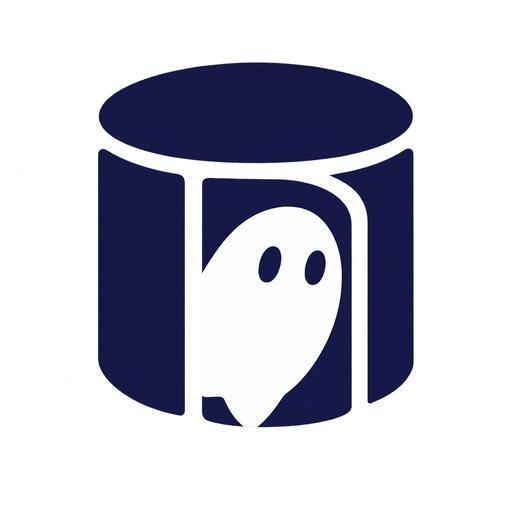
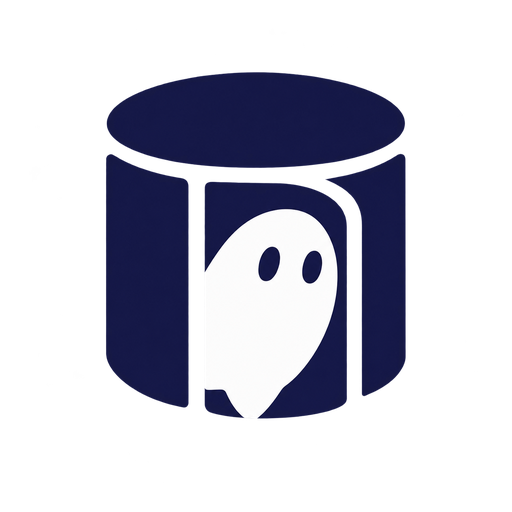
feat: 로고 스타일 수정 및 앱설치방법 버튼 & 설명추가

diff --git a/src/components/install-guide-button.tsx b/src/components/install-guide-button.tsx
@@ -1,6 +1,6 @@
 "use client";
 
-import { ChevronRight, Download, Share, SquarePlus } from "lucide-react";
+import { Download, Share, SquarePlus } from "lucide-react";
 import { useEffect, useState } from "react";
 
 import { BottomSheet } from "@/components/bottom-sheet";
@@ -10,24 +10,25 @@ type BeforeInstallPromptEvent = Event & {
   userChoice: Promise<{ outcome: "accepted" | "dismissed" }>;
 };
 
-const isStandaloneDisplay = () =>
-  window.matchMedia("(display-mode: standalone)").matches ||
-  (window.navigator as unknown as { standalone?: boolean }).standalone === true;
+const getIsIOS = () =>
+  typeof navigator !== "undefined" &&
+  /iPad|iPhone|iPod/.test(navigator.userAgent) &&
+  !("MSStream" in window);
+
+const getIsStandalone = () =>
+  typeof window !== "undefined" &&
+  (window.matchMedia("(display-mode: standalone)").matches ||
+    (window.navigator as unknown as { standalone?: boolean }).standalone ===
+      true);
 
 export const InstallGuideButton = () => {
   const [open, setOpen] = useState(false);
-  const [isIOS, setIsIOS] = useState(false);
-  const [isStandalone, setIsStandalone] = useState(false);
+  const [isIOS] = useState(getIsIOS);
+  const [isStandalone] = useState(getIsStandalone);
   const [deferredPrompt, setDeferredPrompt] =
     useState<BeforeInstallPromptEvent | null>(null);
 
   useEffect(() => {
-    setIsIOS(
-      /iPad|iPhone|iPod/.test(navigator.userAgent) &&
-        !("MSStream" in window),
-    );
-    setIsStandalone(isStandaloneDisplay());
-
     const handleBeforeInstallPrompt = (event: Event) => {
       event.preventDefault();
       setDeferredPrompt(event as BeforeInstallPromptEvent);
@@ -59,13 +60,10 @@ export const InstallGuideButton = () => {
       <button
         type="button"
         onClick={handleClick}
-        className="border-border bg-surface hover:border-primary/30 flex w-full items-center gap-3 rounded-xl border p-3 text-left shadow-sm transition-all hover:shadow"
+        className="border-border text-text-muted hover:border-primary/40 hover:text-primary flex w-full items-center justify-center gap-1.5 rounded-xl border py-2.5 text-xs font-medium transition-colors"
       >
-        <span className="bg-point/40 flex size-9 shrink-0 items-center justify-center rounded-full">
-          <Download className="text-primary size-4" />
-        </span>
-        <span className="text-text flex-1 text-sm font-bold">앱 설치하기</span>
-        <ChevronRight className="text-text-muted size-4" />
+        <Download className="size-3.5" />
+        앱 설치하기
       </button>
 
       <BottomSheet open={open} onOpenChange={setOpen} title="앱 설치 방법">

diff --git a/src/app/(main)/mypage/page.tsx b/src/app/(main)/mypage/page.tsx
@@ -2,6 +2,7 @@ import { ChevronRight, Heart } from "lucide-react";
 import Link from "next/link";
 import { redirect } from "next/navigation";
 
+import { InstallGuideButton } from "@/components/install-guide-button";
 import { MyUploadsSection } from "@/components/mypage/my-uploads-section";
 import { SignOutButton } from "@/components/mypage/sign-out-button";
 import { createClient } from "@/lib/supabase/server";
@@ -38,7 +39,10 @@ export default async function Page() {
 
       <MyUploadsSection userId={userId} />
 
-      <SignOutButton />
+      <div className="mt-2 flex flex-col gap-2">
+        <InstallGuideButton />
+        <SignOutButton />
+      </div>
     </div>
   );
 }

diff --git a/src/components/mypage/sign-out-button.tsx b/src/components/mypage/sign-out-button.tsx
@@ -1,5 +1,5 @@
 export const SignOutButton = () => (
-  <form action="/auth/signout" method="post" className="mt-2">
+  <form action="/auth/signout" method="post">
     <button
       type="submit"
       className="border-border text-text-muted hover:border-destructive/40 hover:text-destructive w-full rounded-xl border py-2.5 text-xs font-medium transition-colors"
